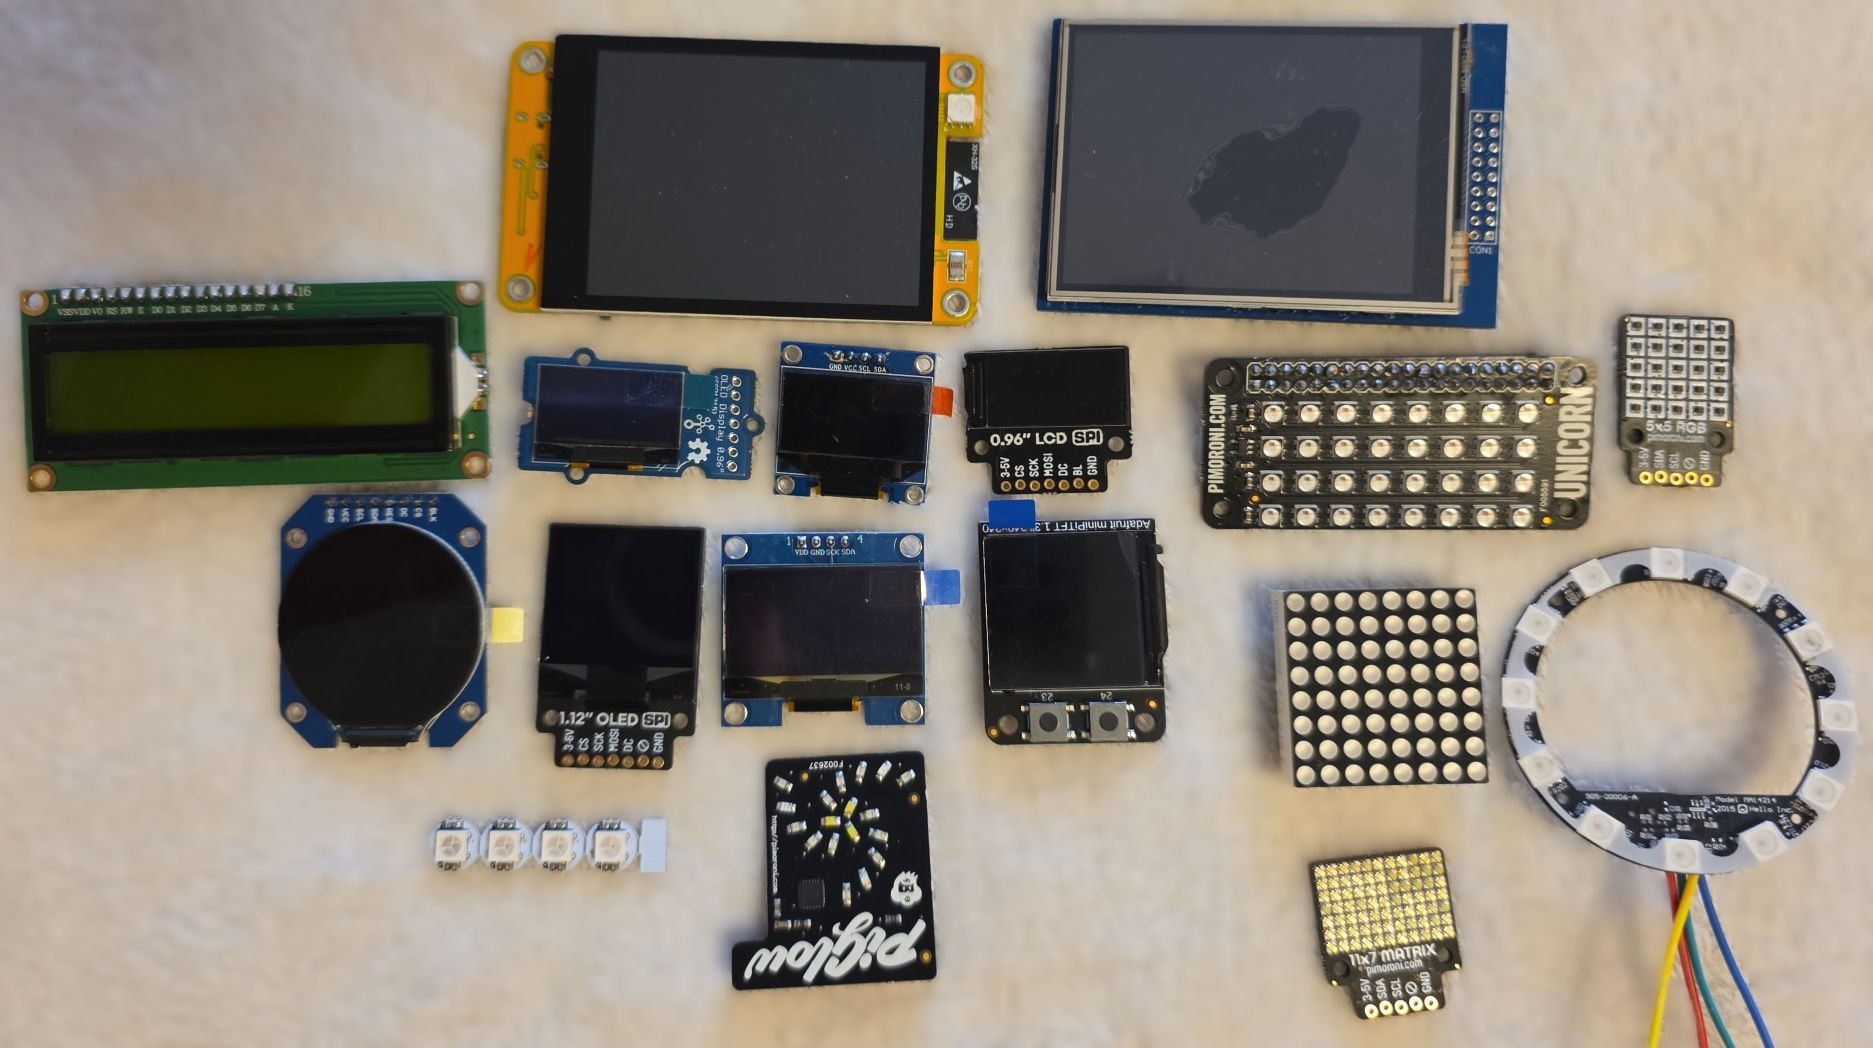
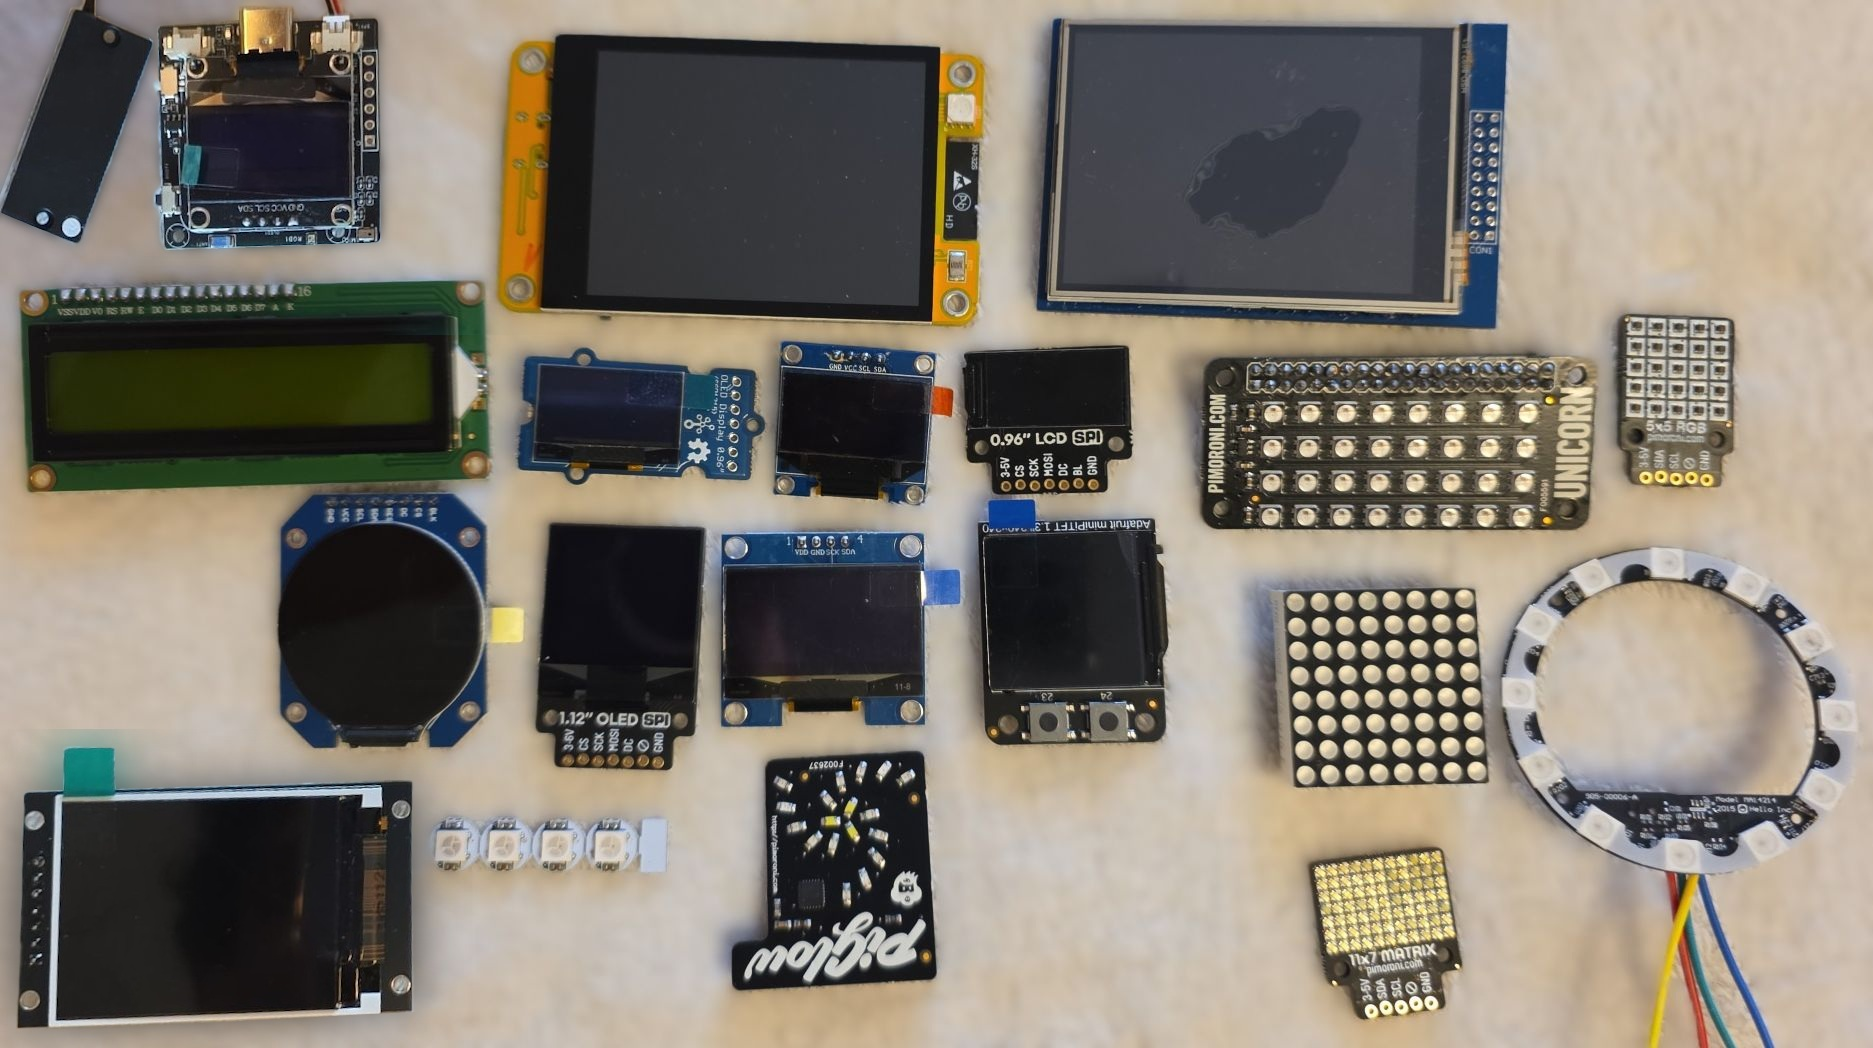
added 2inch st7789v based display

Changed region(s): [[0.0, 0.6718, 0.2477, 1.0], [0.0, 0.0, 0.2168, 0.2443]]

diff --git a/src/content/devices/st7789v-color-display.md b/src/content/devices/st7789v-color-display.md
@@ -1,0 +1,42 @@
+---
+title: '2.0" Color Display 240x320'
+description: 'SPI 2.0" Display Module (240x320)'
+category: "display"
+manufacturer: "Generic"
+model: "st7789v"
+connectionTypes: ["spi"]
+components: ["spi", "display", "display-mipi-spi"]
+tags: ["display", "oled", "color", "st7789v"]
+productionStatus: "active"
+purchaseLinks:
+  - vendor: "AliExpress"
+    url: "https://www.aliexpress.com/item/1005006423091182.html"
+status: "testing"
+count: 1
+dateAcquired: "Dec 2025"
+image: "/images/devices/thumbnails/st7789v-color-display.jpg"
+lastModified: "2026-01-19"
+---
+
+## Overview
+
+The 2" OLED Display Module is a Color OLED? display with 240x320 resolution. (The listing says OLED LCD which
+makes no sense)
+
+![Photo of the 2.0" Color Display](./images/st7789v-color-display/display.jpg)
+
+OLED displays are self-illuminating (no backlight needed), have excellent contrast, wide viewing angles,
+and consume very little power. This module uses the ST7789V driver chip.
+
+## Configuration Notes
+
+- Requires **SPI** interface
+- Platform: [**mipi_spi**](https://esphome.io/components/display/mipi_spi/)
+- Model: **ST7789V**
+
+Board [jc2432w328c](./jc2432w328c.md) has the same driver so it should have the same setup.
+
+## Other Images
+
+Back of the display:
+![Photo of the 2" display from the back](./images/st7789v-color-display/back.jpg)
